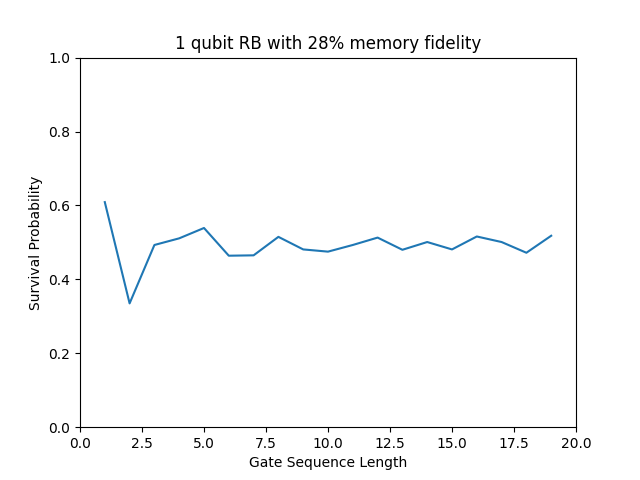
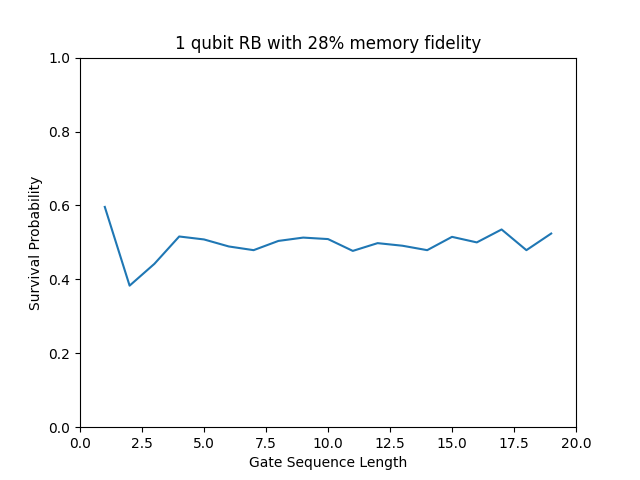
Changed prob_mem_error to mem_fidelity

diff --git a/srb.py b/srb.py
@@ -3,7 +3,7 @@ from Sampler import CliffordSampler
 from utils import dot, pauli_on_qubit, depolarizing_noise
 
 
-def faulty_qubit_mem(current_frame, mem_err_prob, n):
+def faulty_qubit_mem(current_frame, mem_fidelity, n):
     """
     Simulate a faulty memory in regiester B. Acheives this by multiplying
     the current pauli frame by X's and Z's for each qubit. When an X is
@@ -14,8 +14,9 @@ def faulty_qubit_mem(current_frame, mem_err_prob, n):
     ----------
     current_frame : numpy array (2^n x 2^n)
             Pauli matrix to be used as the current error applied to register A.
-    mem_err_prob : double in [0, 1]
-            Probability that a qubit in register B flips due to a memory error.
+    mem_fidelity : double in [0, 1]
+            Probability that a qubit in register B doesn't flips due to a memory
+            error.
     n : positive integer
             Number of qubits being benchmarked. (aka the size of register A)
 
@@ -26,16 +27,16 @@ def faulty_qubit_mem(current_frame, mem_err_prob, n):
 
     """
     for qubit_num in range(n):
-        if np.random.uniform(0, 1) >= mem_err_prob:
+        if np.random.uniform(0, 1) >= mem_fidelity:
             X = pauli_on_qubit(1, qubit_num + 1, n)
             current_frame = dot(X, current_frame)
-        if np.random.uniform(0, 1) >= mem_err_prob:
+        if np.random.uniform(0, 1) >= mem_fidelity:
             Z = pauli_on_qubit(3, qubit_num + 1, n)
             current_frame = dot(Z, current_frame)
     return current_frame
 
 
-def srb_memory(inp_state, seq_len, pauli_frame, n, mem_err_prob,
+def srb_memory(inp_state, seq_len, pauli_frame, n, mem_fidelity,
                mem_err_func=faulty_qubit_mem,
                apply_noise=depolarizing_noise):
     """
@@ -74,7 +75,7 @@ def srb_memory(inp_state, seq_len, pauli_frame, n, mem_err_prob,
         current_state = dot(C, current_state, C.conj().T)
         current_state = apply_noise(current_state, .0, n)
         current_frame = dot(C, current_frame, C.conj().T)
-        current_frame = mem_err_func(current_frame, mem_err_prob, n)
+        current_frame = mem_err_func(current_frame, mem_fidelity, n)
         current_state = dot(current_frame, current_state,  # apply frame
                             current_frame.conj().T)
     current_state = dot(total_seq.conj().T, current_state, total_seq)

diff --git a/PresentRBResults.py b/PresentRBResults.py
@@ -12,7 +12,8 @@ import numpy as np
 
 
 def plot_shots(num_qubits=1, maxm=50, sample_period=1, num_trials=1000,
-               mem_err_prob=1):
+               mem_fidelity=1):
+    
     " Start with just |000..0> and XIII...I as  initial state and frame "
     simple_init_state = get_eigenstate([(1, 3) for _ in range(num_qubits)])
     simple_pauli_frame = np.kron(single_qubit_paulis[1],
@@ -23,7 +24,7 @@ def plot_shots(num_qubits=1, maxm=50, sample_period=1, num_trials=1000,
     for _ in range(num_trials):
         tot_evals += np.array([srb_memory(simple_init_state, num,
                                           simple_pauli_frame, num_qubits,
-                                          mem_err_prob)
+                                          mem_fidelity)
                                for num in range(1, maxm, sample_period)])
     tot_evals /= num_trials
 
@@ -32,8 +33,8 @@ def plot_shots(num_qubits=1, maxm=50, sample_period=1, num_trials=1000,
     plt.xlabel("Gate Sequence Length")
     plt.axis((0, maxm, 0, 1))
     plt.title(str(num_qubits) + " qubit RB with "
-              + str(int(100 * mem_err_prob)) + "% memory fidelity")
-    plt.savefig("plots/" + str(int(100 * mem_err_prob)) + "_memory_"
+              + str(int(100 * mem_fidelity)) + "% memory fidelity")
+    plt.savefig("plots/" + str(int(100 * mem_fidelity)) + "_memory_"
                          + str(num_qubits) + "_qubits.png")
     plt.clf()
     # plt.show()

diff --git a/Plot_Low_Memory_Fidelity.py b/Plot_Low_Memory_Fidelity.py
@@ -10,9 +10,8 @@ from PresentRBResults import plot_shots
 
 if __name__ == "__main__":
     for num_qubits in [1, 3, 5]:
-        for no_mem_err_prob in [.5, .25]:
-            mem_err_prob = round(1-pow(no_mem_err_prob, 1/(2 * num_qubits)), 2)
+        for no_mem_error in [.4, .2, .1]:
             print("Current qubit number is: " + str(num_qubits))
-            print("Current probability of a memory error is: "
-				  + str(100 * mem_err_prob) + "%")
-            plot_shots(maxm=20, num_qubits=num_qubits, mem_err_prob=mem_err_prob)
+            print("Current memory fidelity is: "
+				  + str(100 * mem_fidelity) + "%")
+            plot_shots(maxm=20, num_qubits=num_qubits, mem_fidelity=mem_fidelity)

diff --git a/Plot_High_Memory_Fidelity.py b/Plot_High_Memory_Fidelity.py
@@ -11,8 +11,8 @@ from PresentRBResults import plot_shots
 
 if __name__ == "__main__":
     for num_qubits in [1, 3, 5]:
-        for mem_err_prob in [.9, .95, .99]:
+        for mem_fidelity in [.9, .95, .99]:
             print("Current qubit number is: " + str(num_qubits))
-            print("Current probability of a memory error is: "
-				  + str(100 * mem_err_prob) + "%")
-            plot_shots(num_qubits=num_qubits, mem_err_prob=mem_err_prob)
+            print("Current memory fidelity is: "
+				  + str(100 * mem_fidelity) + "%")
+            plot_shots(num_qubits=num_qubits, mem_fidelity=mem_fidelity)
